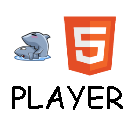
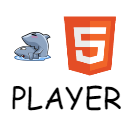
支持点击图标切换原播放器

Changed region(s): [[0.5, 0.6562, 0.9688, 0.875], [0.0938, 0.6562, 0.5, 0.875]]

diff --git a/src/douyu/contentScript.ts b/src/douyu/contentScript.ts
@@ -4,7 +4,7 @@ import { DanmuPlayer, PlayerUI, PlayerUIEventListener, PlayerState, SizeState } 
 import { bindMenu } from '../playerMenu'
 import { DouyuSource } from './source'
 import { getACF } from './api'
-import { getURL, addScript, addCss, createBlobURL, onMessage, postMessage, sendMessage } from '../utils'
+import { getURL, addScript, addCss, createBlobURL, onMessage, postMessage, sendMessage, getSetting, setSetting, setBgListener } from '../utils'
 import { TypeState } from 'TypeState'
 
 declare var window: {
@@ -205,8 +205,36 @@ onMessage('DANMU', data => {
 })
 onMessage('VIDEOID', async data => {
   console.log('onVideoId', data)
+  const roomId = data.roomId
+  setBgListener(async req => {
+    switch (req.type) {
+      case 'toggle':
+        let setting = await getSetting()
+        const id = setting.blacklist.indexOf(roomId)
+        if (id === -1) {
+          setting.blacklist.push(roomId)
+        } else {
+          setting.blacklist.splice(id, 1)
+        }
+        await setSetting(setting)
+        location.reload()
+    }
+  })
+  try {
+    const setting = await getSetting()
+    if (setting.blacklist.indexOf(roomId) !== -1) { // 存在黑名单
+      if (chrome && chrome.runtime && chrome.runtime.sendMessage) {
+        chrome.runtime.sendMessage({
+          type: 'disable'
+        })
+      }
+      return
+    }
+  } catch (e) {
+    console.warn(e)
+  }
   let ctr = document.querySelector(`#${data.id}`)
-  danmuPlayer = await loadVideo(data.roomId, el => {
+  danmuPlayer = await loadVideo(roomId, el => {
     ctr.parentNode.replaceChild(el, ctr)
   })
 })

diff --git a/src/utils.ts b/src/utils.ts
@@ -225,3 +225,49 @@ export async function retry<T> (promise: () => Promise<T>, times: number) {
   }
   throw err
 }
+export function getSync () {
+  return new Promise<any>((res, rej) => {
+    if (chrome && chrome.storage && chrome.storage.sync) {
+      chrome.storage.sync.get(items => {
+        res(items)
+      })
+    } else {
+      rej(new Error('不支持的存储方式'))
+    }
+  })
+}
+export function setSync (item: any) {
+  return new Promise<void>((res, rej) => {
+    if (chrome && chrome.storage && chrome.storage.sync) {
+      chrome.storage.sync.set(item, res)
+    } else {
+      rej(new Error('不支持的存储方式'))
+    }
+  })
+}
+interface Setting {
+  blacklist: string[]
+}
+export async function getSetting (): Promise<Setting> {
+  const setting = await getSync()
+  if (!setting.blacklist) {
+    setting.blacklist = []
+  }
+  return setting
+}
+export async function setSetting (setting: Setting) {
+  await setSync(setting)
+}
+const defaultBgListener = async (request: any) => null
+let bgListener = defaultBgListener
+if (chrome && chrome.runtime && chrome.runtime.onMessage) {
+  chrome.runtime.onMessage.addListener(async (request, sender, sendResponse) => {
+    sendResponse(await bgListener(request))
+  })
+}
+export function setBgListener (listener: typeof defaultBgListener) {
+  if (listener !== defaultBgListener) {
+    console.warn('多次设置BgListener')
+  }
+  bgListener = listener
+}

diff --git a/src/background.js b/src/background.js
@@ -73,3 +73,25 @@ chrome.runtime.onConnect.addListener(port => {
     })
   }
 })
+chrome.pageAction.onClicked.addListener(tab => {
+  chrome.tabs.sendMessage(tab.id, {
+    type: 'toggle'
+  })
+})
+chrome.tabs.onUpdated.addListener((id, x, tab) => {
+	if (/https?:\/\/[^\/]*\.douyu\.com(\/|$)/.test(tab.url)) {
+		chrome.pageAction.show(tab.id)
+	} else {
+		chrome.pageAction.hide(tab.id)
+	}
+})
+chrome.runtime.onMessage.addListener((request, sender, sendResponse) => {
+  switch (request.type) {
+    case 'disable':
+      chrome.pageAction.setIcon({
+        tabId: sender.tab.id,
+        path: 'disabled.png'
+      })
+      break
+  }
+})

diff --git a/src/douyu/inject.ts b/src/douyu/inject.ts
@@ -32,7 +32,7 @@ hookFunc(document, 'createElement', (old, args) => {
       // console.log(args)
       if (args[0] == 'data') {
         if (/WebRoom/.test(args[1])) {
-          args[1] = ''
+          // args[1] = ''
           setTimeout(() => {
             let roomId = getRoomIdFromFlash(getParam(ret, 'flashvars'))
             console.log('RoomId', roomId)

diff --git a/src/chrome.ts b/src/chrome.ts
@@ -1,0 +1,10 @@
+const pageAction = {
+  setIcon (details: chrome.pageAction.IconDetails) {
+    return new Promise<void>((res, rej) => {
+      chrome.pageAction.setIcon(details, res)
+    })
+  }
+}
+export default {
+  pageAction
+}

diff --git a/build/config.js b/build/config.js
@@ -39,6 +39,7 @@ function genConfig(opts) {
   opts.globals = {
     'flv.js': 'flvjs'
   }
+  opts.indent = '  '
   return opts
 }
 
